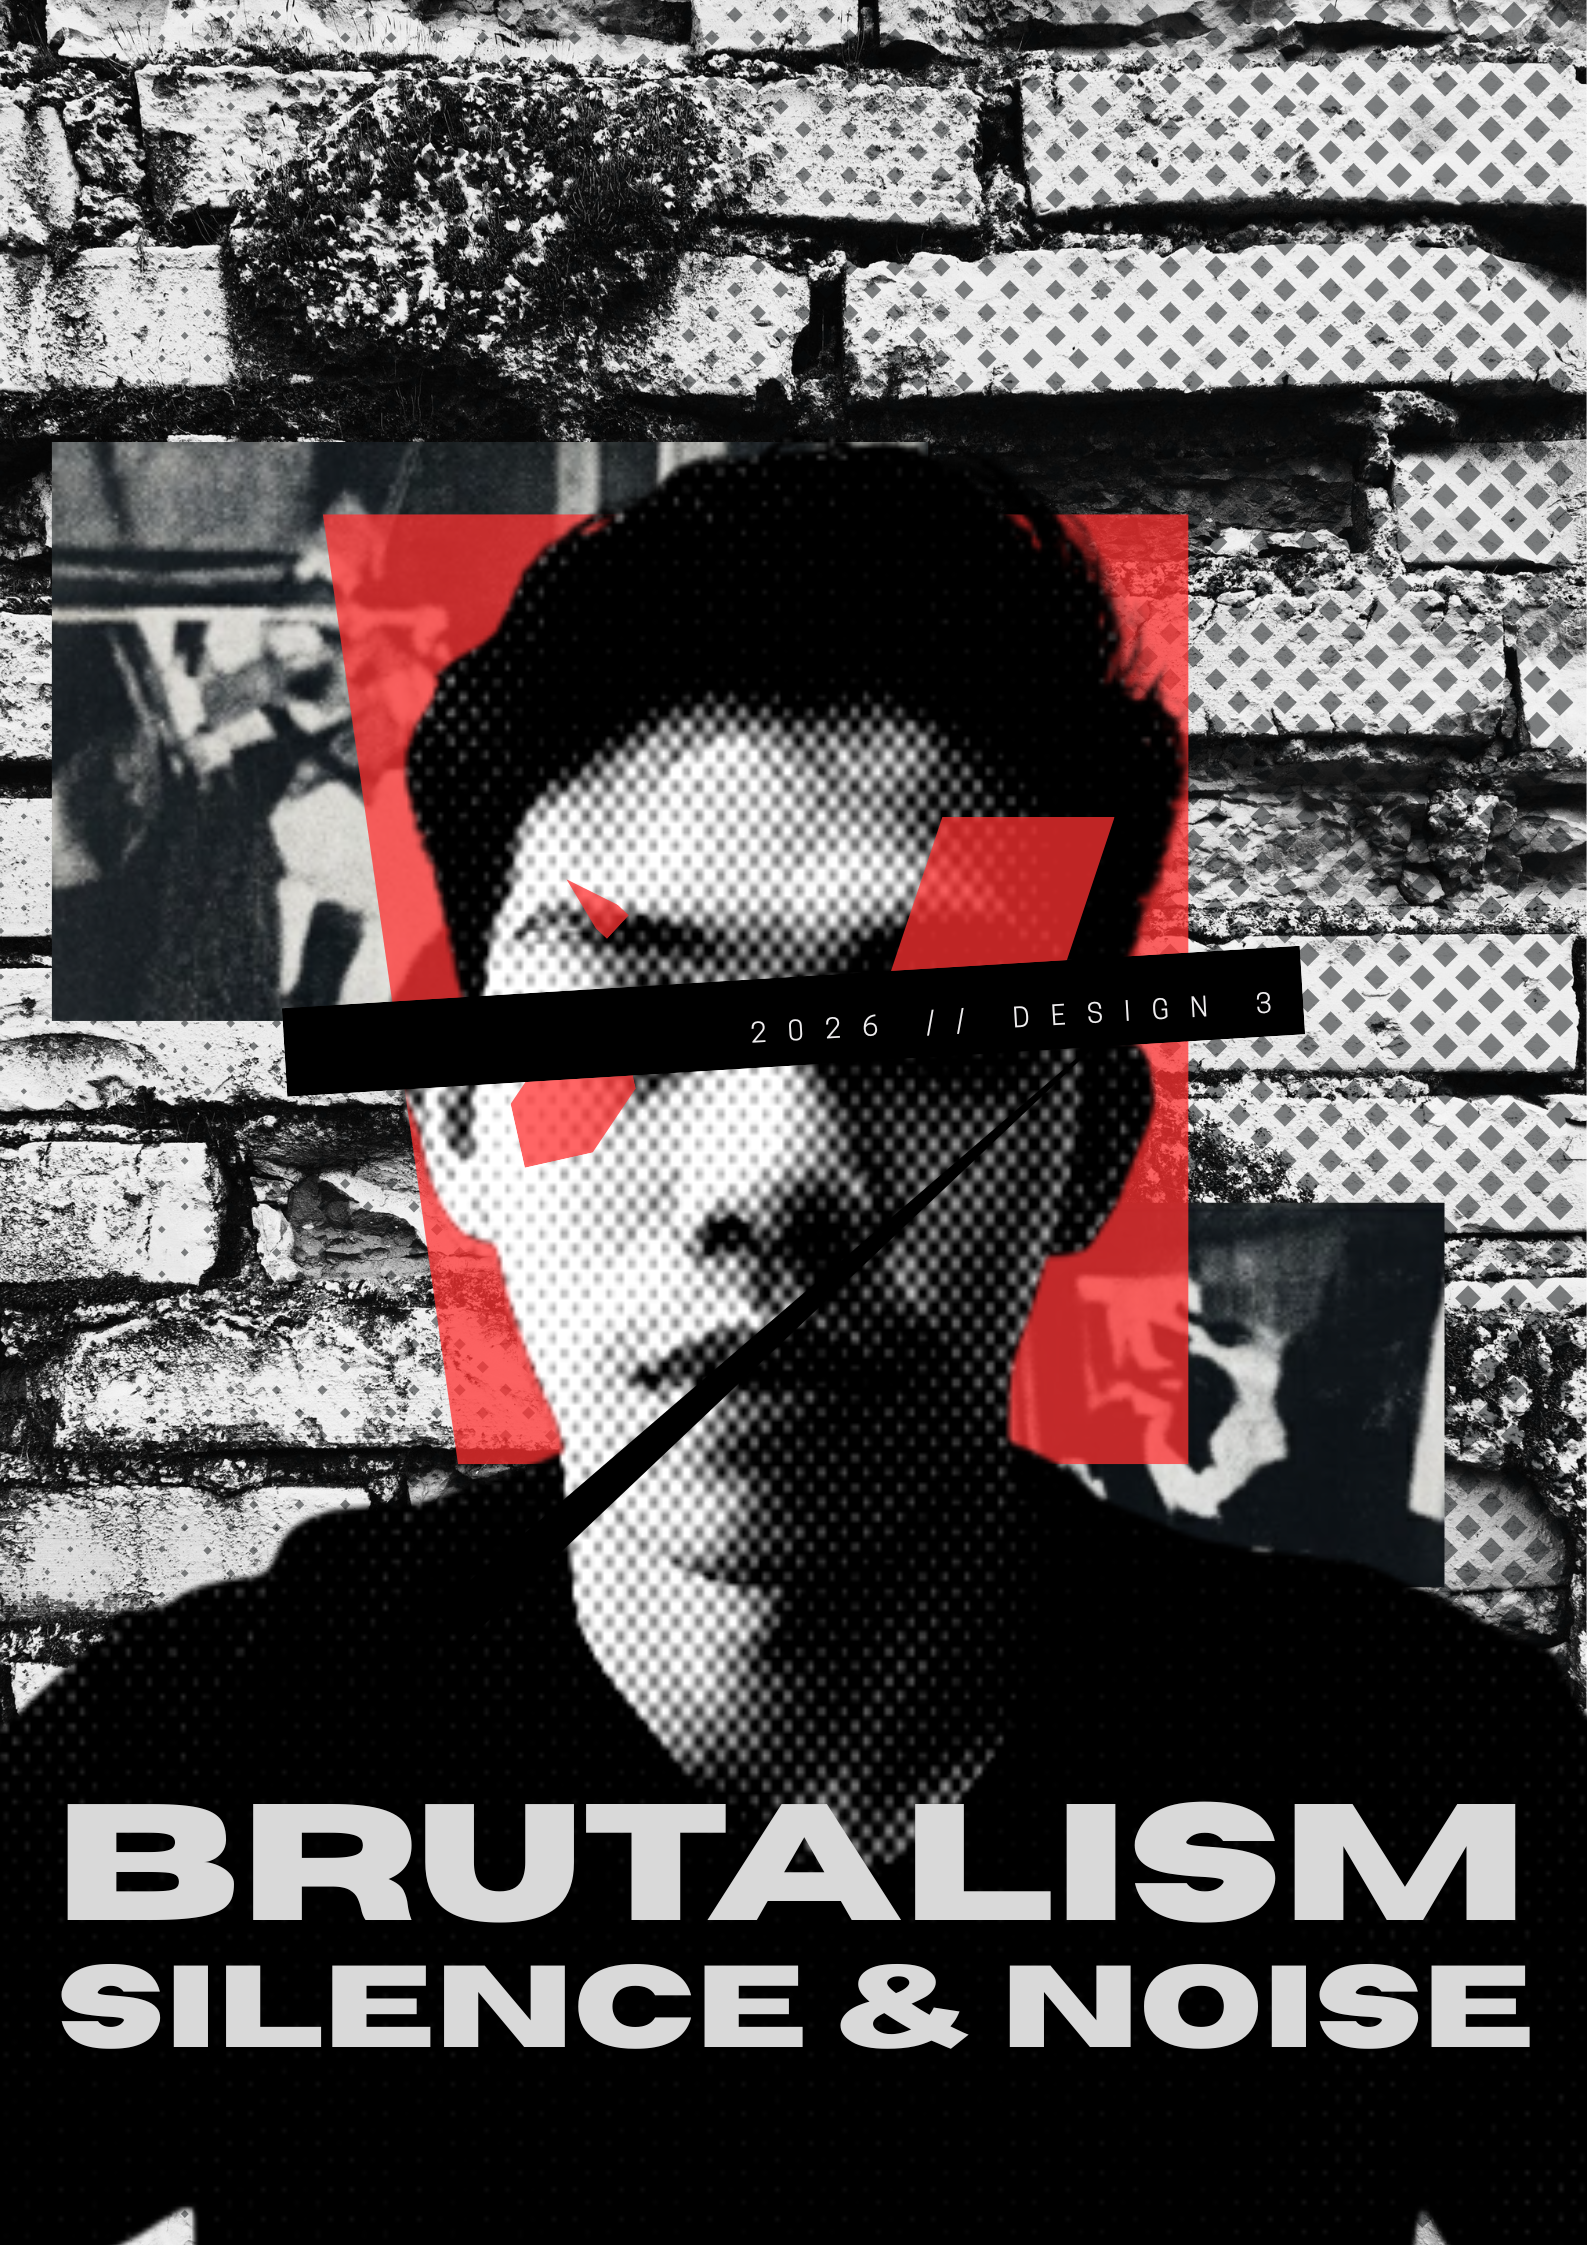
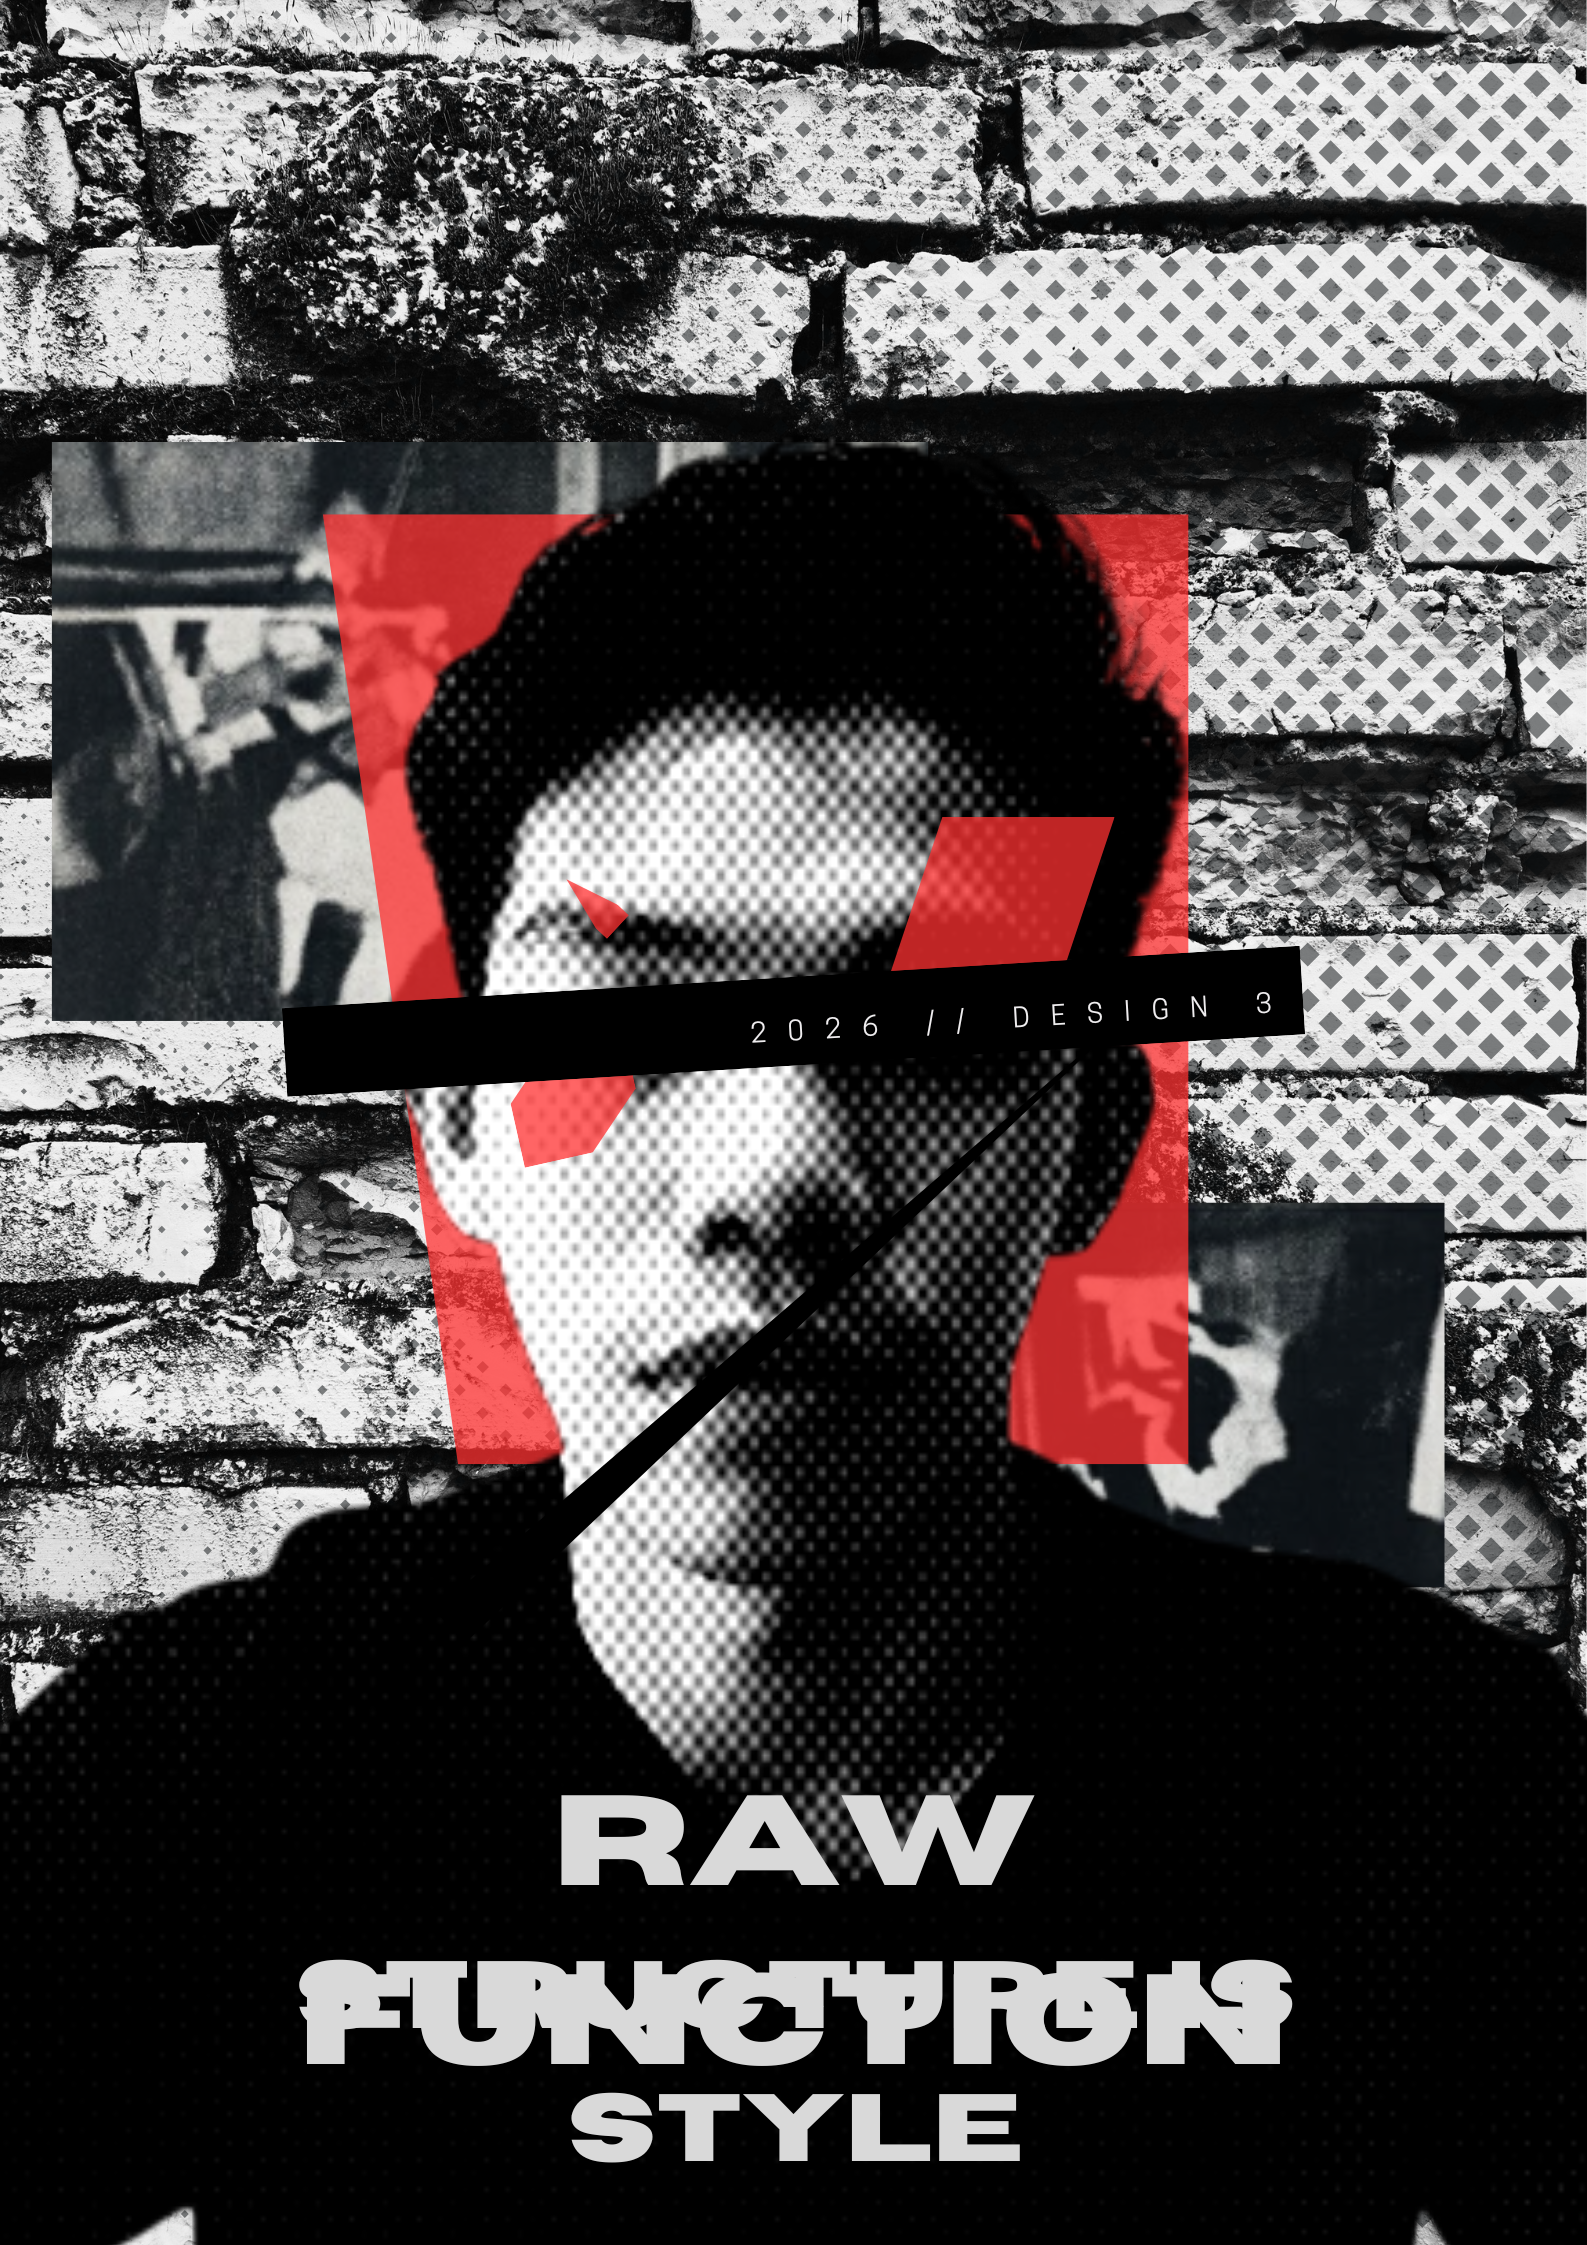
V1.2.9

Changed region(s): [[0.0309, 0.7795, 0.9572, 0.9666]]

diff --git a/src/data/creative.ts b/src/data/creative.ts
@@ -27,19 +27,19 @@ export const creativeProjects: CreativeProject[] = [
   {
     id: "creative-4",
     title: "Y2K / Neo-Grit",
-    category: "Social Media Marketing",
-    image: "/creative/sample.jpg",
+    category: "Trend-Driven Social Creative",
+    image: "/creative/creative-4.png",
   },
   {
     id: "creative-5",
     title: "High-Fashion Editorial",
     category: "Brand Lookbook & Digital Editorial",
-    image: "/creative/sample.jpg",
+    image: "/creative/creative-5.png",
   },
   {
     id: "creative-6",
-    title: "Data-Visual / Infographic",
-    category: "Visual Content Strategy & Design",
-    image: "/creative/sample.jpg",
+    title: "Surrealism",
+    category: "Creative Campaign & Key Visuals",
+    image: "/creative/creative-6.png",
   },
 ];
